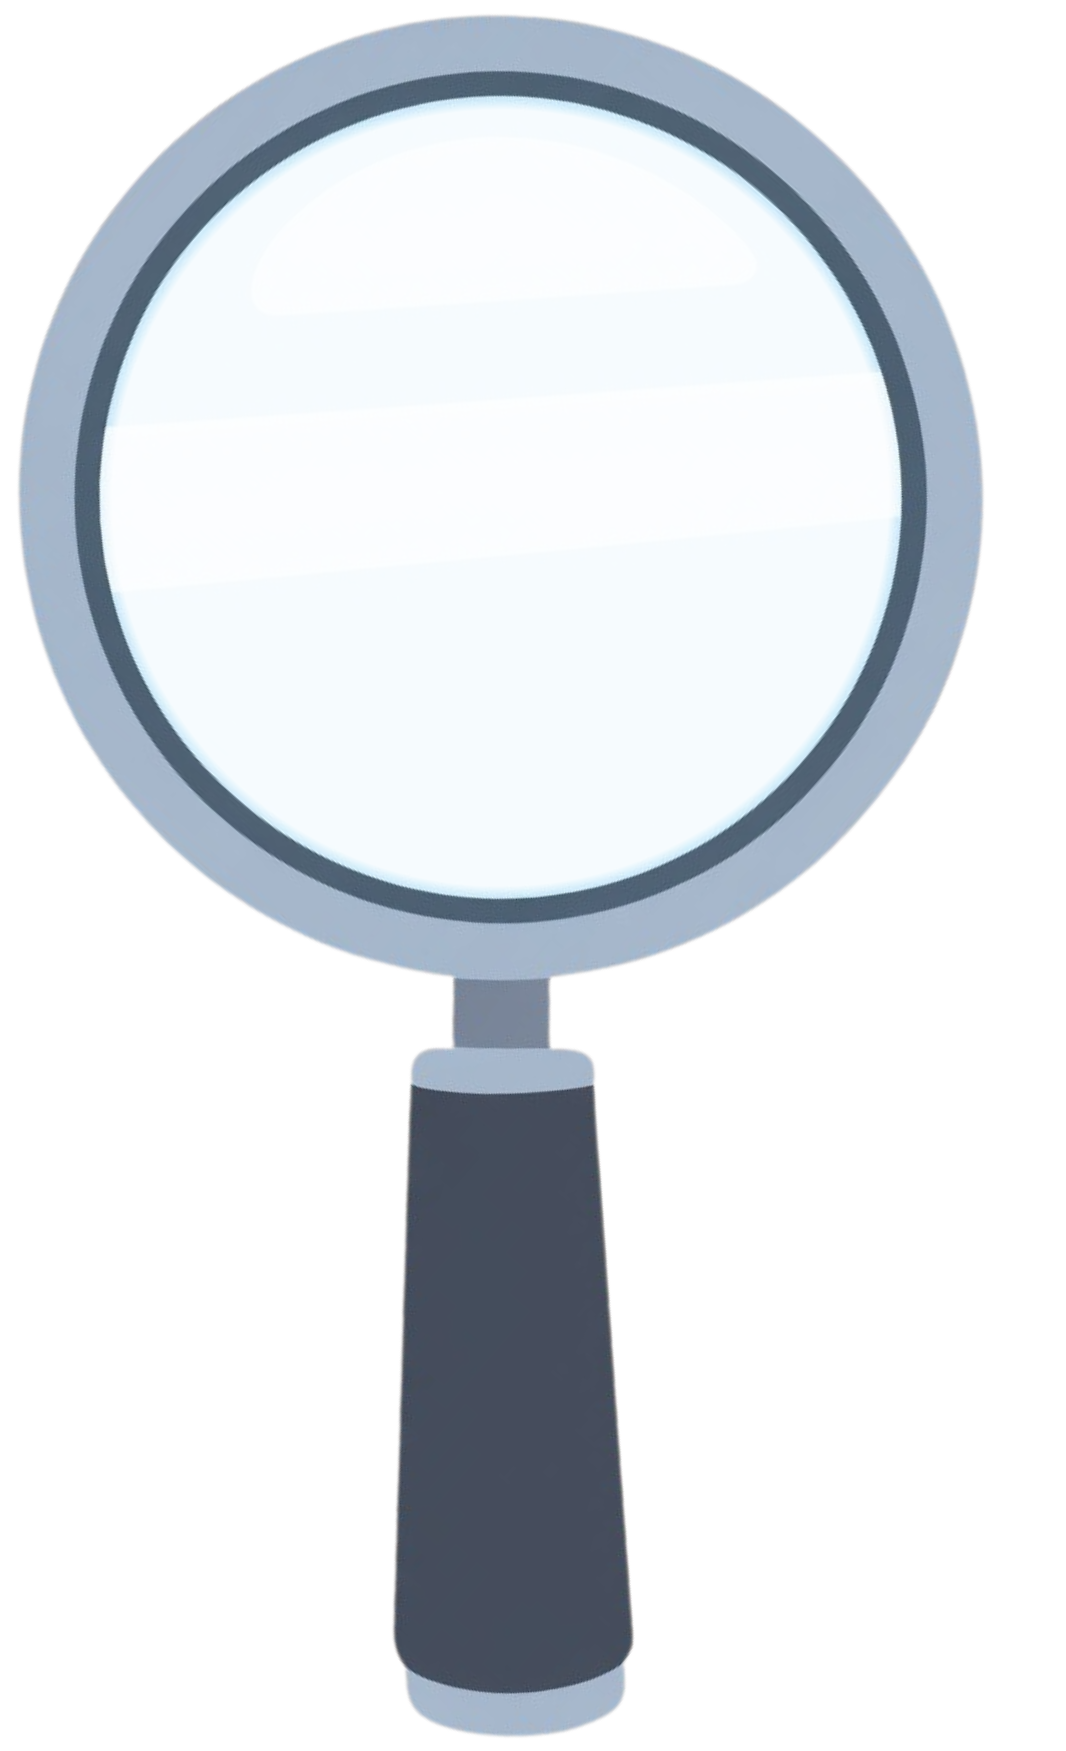
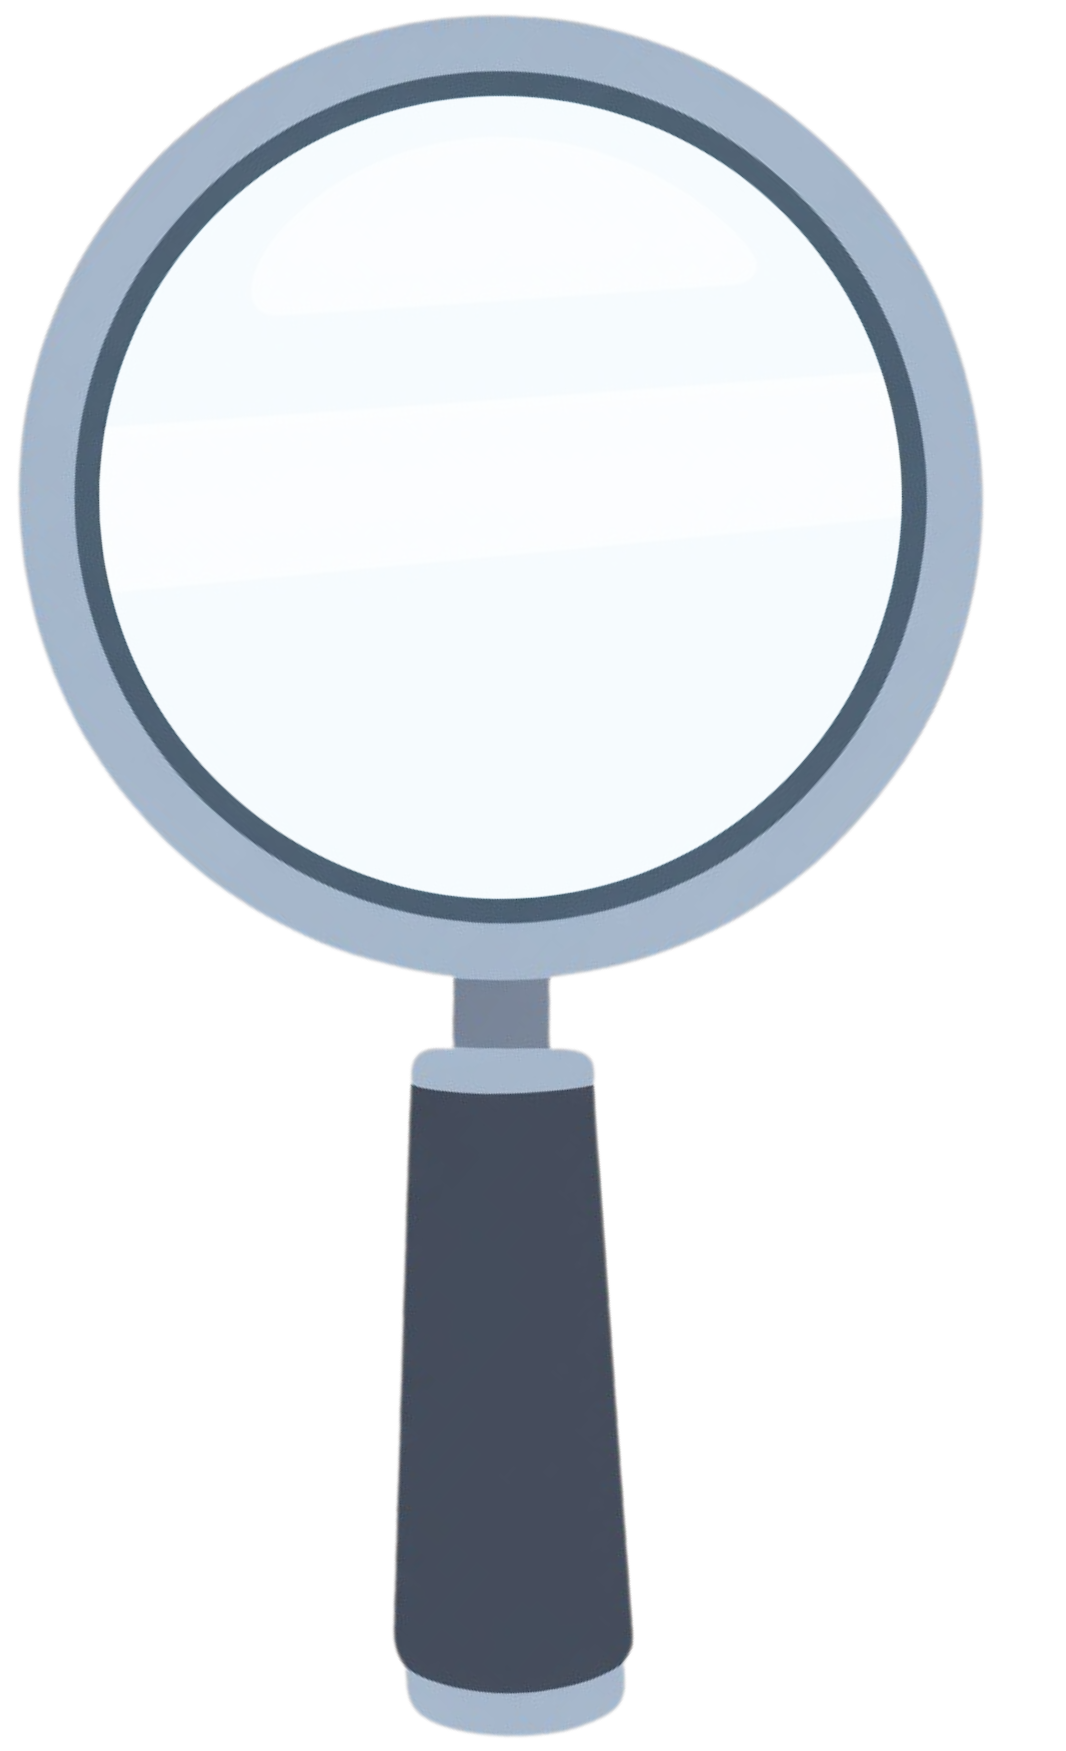
Remove opaque inner rim from transparent magnifying glass lens and align lens mask

diff --git a/iOS/RileyApp/Sources/AnatomyExplorerView.swift b/iOS/RileyApp/Sources/AnatomyExplorerView.swift
@@ -1033,9 +1033,9 @@ public struct AnatomyExplorerView: View {
                 let organCenterY = charTopY + (charHeight * organCfg.offsetY) + (organH / 2)
                 let organCenterX = charCenterX + (proxy.size.width * organCfg.offsetX)
                 
-                let currentCenterX = dockX + magnifierOffset.width
+                let currentCenterX = dockX + magnifierOffset.width - (magWidth * 0.031)
                 let currentCenterY = dockY + magnifierOffset.height - (magHeight * 0.216)
-                let lensRadius = magWidth * 0.35
+                let lensRadius = magWidth * 0.376
                 
                 let isOlder = (charId == "older-boy" || charId == "older-girl")
                 let organBoxW = isOlder ? (organH * (303.0 / 1042.0)) : (organH * (477.0 / 1583.0))
@@ -1080,9 +1080,9 @@ public struct AnatomyExplorerView: View {
 
             // Assembled Skeleton Layer (Revealed through magnifying glass lens when Skeletal System is active)
             if selectedSystemId == "skeletal" {
-                let currentCenterX = dockX + magnifierOffset.width
+                let currentCenterX = dockX + magnifierOffset.width - (magWidth * 0.031)
                 let currentCenterY = dockY + magnifierOffset.height - (magHeight * 0.216)
-                let lensRadius = magWidth * 0.35
+                let lensRadius = magWidth * 0.376
                 
                 let charAspect = characterAspect(for: charId)
                 let charW = charHeight * charAspect
@@ -1188,7 +1188,7 @@ public struct AnatomyExplorerView: View {
                             height: magnifierBaseOffset.height + value.translation.height
                         )
                         
-                        let currentCenterX = dockX + magnifierOffset.width
+                        let currentCenterX = dockX + magnifierOffset.width - (magWidth * 0.031)
                         let currentCenterY = dockY + magnifierOffset.height - (magHeight * 0.216)
                         
                         let charMinX = proxy.size.width * 0.32
@@ -1385,7 +1385,8 @@ public struct AnatomyExplorerView: View {
         let dockX = proxy.size.width * 0.185
         let dockY = proxy.size.height * 0.48
         let magHeight = proxy.size.height * 0.542
-        let currentLensX = dockX + magnifierOffset.width
+        let magWidth = magHeight * (1066.0 / 1751.0)
+        let currentLensX = dockX + magnifierOffset.width - (magWidth * 0.031)
         let currentLensY = dockY + magnifierOffset.height - (magHeight * 0.216)
         
         let sortedOrgans = organList.sorted { a, b in
@@ -1546,7 +1547,8 @@ public struct AnatomyExplorerView: View {
         let dockX = proxy.size.width * 0.185
         let dockY = proxy.size.height * 0.48
         let magHeight = proxy.size.height * 0.542
-        let currentLensX = dockX + magnifierOffset.width
+        let magWidth = magHeight * (1066.0 / 1751.0)
+        let currentLensX = dockX + magnifierOffset.width - (magWidth * 0.031)
         let currentLensY = dockY + magnifierOffset.height - (magHeight * 0.216)
 
         guard charW > 0, charHeight > 0 else { return }

diff --git a/index.html b/index.html
@@ -19198,7 +19198,7 @@
       // The circular lens center is at ~47% width and ~28.4% height of the magnifying glass
       const lensX = magRect.left + magRect.width * 0.47;
       const lensY = magRect.top + magRect.height * 0.284;
-      const lensRadius = magRect.width * 0.35;
+      const lensRadius = magRect.width * 0.376;
       const charRect = charContainer.getBoundingClientRect();
 
       const isOver = (
@@ -19343,7 +19343,7 @@
             const magRect = wrapper.getBoundingClientRect();
             const lensX = magRect.left + magRect.width * 0.47;
             const lensY = magRect.top + magRect.height * 0.284;
-            const lensRadius = magRect.width * 0.35;
+            const lensRadius = magRect.width * 0.376;
             const distToLens = Math.hypot(e.clientX - lensX, e.clientY - lensY);
 
             if (isMagnifierOverCharacter && distToLens <= lensRadius) {

diff --git a/preview/index.html b/preview/index.html
@@ -18136,7 +18136,7 @@
       // The circular lens center is at ~47% width and ~28.4% height of the magnifying glass
       const lensX = magRect.left + magRect.width * 0.47;
       const lensY = magRect.top + magRect.height * 0.284;
-      const lensRadius = magRect.width * 0.35;
+      const lensRadius = magRect.width * 0.376;
       const charRect = charContainer.getBoundingClientRect();
 
       const isOver = (
@@ -18281,7 +18281,7 @@
             const magRect = wrapper.getBoundingClientRect();
             const lensX = magRect.left + magRect.width * 0.47;
             const lensY = magRect.top + magRect.height * 0.284;
-            const lensRadius = magRect.width * 0.35;
+            const lensRadius = magRect.width * 0.376;
             const distToLens = Math.hypot(e.clientX - lensX, e.clientY - lensY);
 
             if (isMagnifierOverCharacter && distToLens <= lensRadius) {

diff --git a/sw.js b/sw.js
@@ -1,5 +1,5 @@
 // Riley PWA Service Worker
-const CACHE_NAME = 'riley-pwa-v351';
+const CACHE_NAME = 'riley-pwa-v352';
 const PRECACHE_ASSETS = [
   './',
   './index.html',
